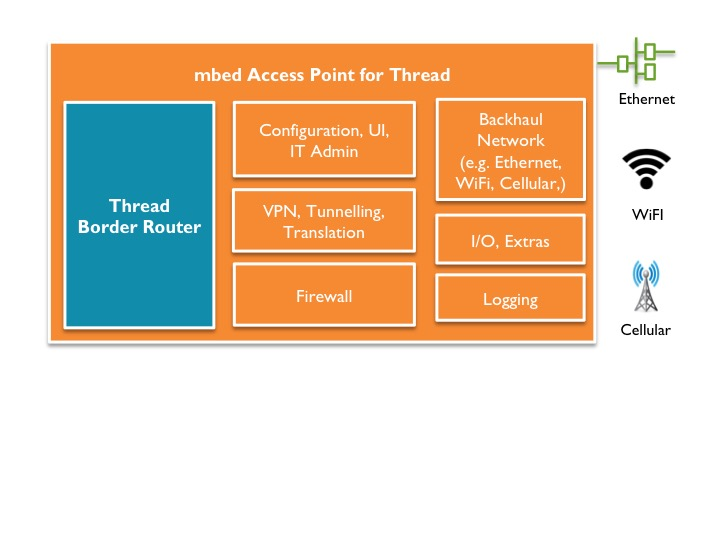
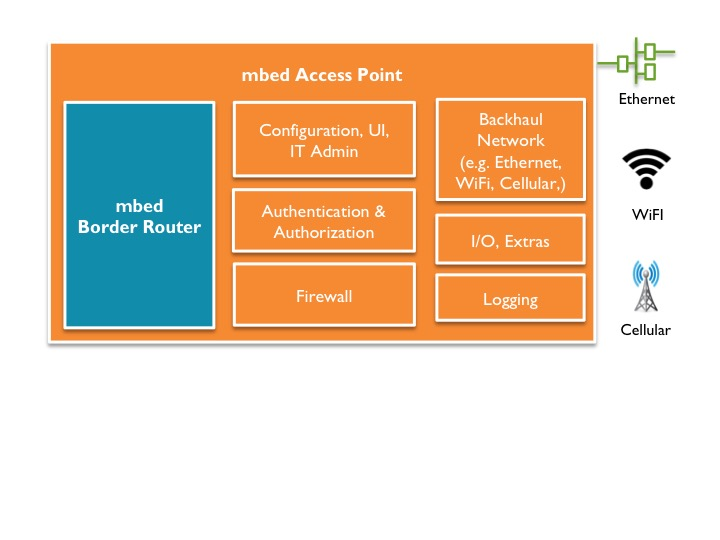
[mbed access point] Documentation update Added instruction in the README.md to build an mbed access point either based on Thread or 6LoWPAN border router.

Changed region(s): [[0.3667, 0.3556, 0.55, 0.4444], [0.275, 0.1185, 0.6417, 0.1481], [0.1528, 0.3556, 0.2444, 0.4148]]

diff --git a/README.md b/README.md
@@ -1,22 +1,22 @@
 
 <!--- Copyright (c) 2016 ARM Limited. All rights reserved.) --->
 
-# mbed Access Point for Thread networks
+# mbed Access Point for Low Power Wireless Networks
 
-mbed Access Point for Thread is a wireless access point that manages Thread networks and provides the necessary features to integrate a Thread network into an IT environment and cope with existing backhaul networks. It is a combination of the mbed 6LoWPAN Border Router (Thread Border Router) and the Linux Router.    
+mbed Access Point is a wireless device that manages the low power wireless networks (Thread or 6LoWPAN). It is a combination of the mbed 6LoWPAN Border Router (Thread/6LoWPAN Border Router) and the Linux Router. It provides the necessary features to integrate the low power wireless networks into an IT environment and cope with existing backhaul networks.    
 
-This document provides instructions for building an mbed Access Point for Thread based on Raspberry Pi 2B and the mbed 6LoWPAN Border Router.
+This document provides instructions for building an mbed Access Point for low power wireless networks based on Raspberry Pi 2B and the mbed 6LoWPAN Border Router.
 
 You can:
 
 * [Use a pre-built image based on OpenWrt for Raspberry Pi 2B](#using-the-pre-built-image).
-* [Generate an image from a source with custom configuration](#generating-an-image-from-source).
+* [Generate an image from a source](#generating-an-image-from-source).
 
 ## The architecture
 
-The architecture described in this document consists of two embedded boards, an mbed 6LoWPAN Border Router and a Linux Router. The motivation behind this two-board design is to achieve a mesh-agnostic mbed Access Point: we can use either a [Thread](https://www.threadgroup.org/) or a 6LoWPAN Border Router.
+The mbed access point consists of two embedded boards, an mbed Border Router and a Linux Router. The motivation behind this design is to achieve a mesh-agnostic mbed Access Point. With this approach it is possible to build an mbed Access Point either based on a [Thread](https://www.threadgroup.org/) or a 6LoWPAN Border Router with no (or minimal) changes to the Linux Router.
 
-The Thread Border Router is an IPv6 router that routes between regular and Thread network segments. Thread is designed for highly constrained IP networking, where bandwidth or energy is in short supply. Consequently, the Thread Border Router has some additional functionality to translate between the two domains.
+The Border (or Edge) Router is an IPv6 router that routes between regular and Thread/6LoWPAN network segments. The Thread/6LoWPAN is designed for highly constrained IP networking, where bandwidth or energy is in short supply. Consequently the Border Router has some additional functionality to translate between the two domains.
 
 The Linux Router is a resource-rich device capable of running Linux or a Linux-like operating system. It provides features typically expected by IT administrators, like VLAN support, authentication and authorization services, network management and logging, tunneling support, firewall and wireless mesh network management.
 
@@ -27,7 +27,7 @@ The figure below provides an overview of the mbed Access Point hardware componen
 
 You will need:
 
-1. Raspberry Pi 2B (working as the Linux Router).
+1. Raspberry Pi 2B (Linux Router).
 1. [mbed 6LoWPAN Border Router HAT](https://developer.mbed.org/platforms/mbed-6LoWPAN-Border-Router-HAT/).
 1. Micro-USB cable.
 1. Micro-SD card.
@@ -50,17 +50,19 @@ We've all the hardware components needed. Let's start building our mbed Access P
 
 The pre-built image for Raspberry Pi 2B contains the necessary modules and packages to convert a Raspberry Pi into an OpenWrt-based Linux Router.
 
-The current version of mbed Access Point doesn't support tunneling, so it needs IPv6 support in the backbone network to set up end-to-end communication (Thread end nodes to [mbed Device Connector](https://connector.mbed.com/)). If your backbone network only supports IPv4, you can use the default LAN network prefix included in the image: it creates an isolated Thread network based on the [ULA](https://tools.ietf.org/html/rfc4193) prefix `fd00:db80::/64`, so you can set up a Thread network without IPv6 support. The limitation in this configuration is that the Thread end nodes can only talk with mbed Access Point.
+The current version of mbed Access Point requires IPv6 support in the backbone network to setup an end-to-end communication (Thread/6LoWPAN end nodes talking to [mbed Device Connector](https://connector.mbed.com/)), as tunneling support is not yet available. However, the image includes a default [ULA](https://tools.ietf.org/html/rfc4193) prefix `fd00:db80::/64`, which enables the device to set up a Thread/6LoWPAN network without IPv6 support. In this configuration, Thread/6LoWPAN end nodes can only communicate with mbed Access Point.
 
 To use the pre-built image:
 
 1. Download the mbed Access Point [image!](binaries/openwrt-mbedap-v2.0.0-brcm2708-bcm2709-rpi-2-ext4-sdcard.img).
-1. Install the image on a Mirco-SD card. This [link](https://www.raspberrypi.org/documentation/installation/installing-images/) provides step by step instructions.
+1. Install the image on a Mirco-SD card. The [link](https://www.raspberrypi.org/documentation/installation/installing-images/) provides step by step instructions.
 1. Insert the Mirco-SD card into the Raspberry Pi's Mirco-SD card slot.
+
+If you are happy with the image provided in the repository which contains the default configuration then you can skip the next section and go to [prepare the mbed border router](#prepare-the-mbed-border-router).
 
 #### Generating an image from source
 
-This repository contains the build system for an mbed Access Point based on the OpenWrt build system. This allows you to build the image from source:
+This repository contains the build system for the mbed Access Point which is based on the OpenWrt. This allows you to build the image from source:
 
 1. Install the build system [prerequisites](https://wiki.openwrt.org/doc/howto/buildroot.exigence).
 1. Clone the repository onto a local machine.
@@ -78,30 +80,21 @@ Use V=s for verbose build log:
     make V=s
     ```
 1. The generated image (.img file) is located in the directory ``./bin/brcm2708/``.
-1. Install the image on a Mirco-SD card. This [link](https://www.raspberrypi.org/documentation/installation/installing-images/mac.md) provides step by step instructions.
+1. Install the image on a Mirco-SD card. The [link](https://www.raspberrypi.org/documentation/installation/installing-images/mac.md) provides step by step instructions.
 1. Insert the Mirco-SD card into the Raspberry Pi's Mirco-SD card slot.
 
-## Prepare the mbed 6LoWPAN Border Router
-
-### The DAPLink interface
-[The mbed 6LoWPAN Border Router HAT](https://developer.mbed.org/platforms/mbed-6LoWPAN-Border-Router-HAT/) contains a DAPLINK interface that connects to the host computer over USB and provides the following interfaces:
-
-1. A driver-less HID interface that provides a channel over which the CMSIS-DAP debug protocol runs. This enables all the industry-standard toolchains to program and debug the target system.
-1. USB Disk drag and drop programming: DAPLink debug probes appear on the host computer as a USB disk. Program files in binary (.bin) and hex (.hex) formats can be copied onto the USB disk using drag and drop, which then programs them on the target system.
-1. USB Serial Port: The DAPLink debug probe also provides a USB serial port that can be bridged through to a TTL UART on the target system. The USB Serial port will appear on a Windows machine as a COM port, or on a Linux machine as a /dev/tty interface.
-
-**Tip:** More information can be found at [DAPLINK](https://docs.mbed.com/docs/mbed-os-handbook/en/latest/advanced/DAP/).
+## Prepare the mbed Border Router
 
 ### Installing the binary
 
-___Getting the binary___
+___Generating the binary___
 
-The Thread Border Router firmware is only avaialbe in binary form to mbed users. But, ARM mbed Partners can download the source from [here](https://github.com/ARMmbed/thread-testapp-private).
-The Thread Border Router binary with the default configuration (RF channel = 26 and PAN ID = 0xface) is available [here!](binaries/thread-testapp-private_gff74fb0.bin).
+The instructions to generate the binary for the mbed Border Router is available [here](https://github.com/ARMmbed/nanostack-border-router).
+**Note:** Use the pre-configured json file "configs/Thread_SLIP_Atmel_RF.json" as mbed_app.json to use SLIP protocol for backhaul network.
 
 ___Installing___
 
-1. Connect the mbed 6LoWPAN Border Router to a laptop using the Micro-USB cable.
+1. Connect the mbed 6LoWPAN Border Router to a desktop/laptop using a Micro-USB cable.
 1. Ensure that the blue jumper (RESET-EN) is in the **off** position.
 1. Program your binary on the mbed 6LoWPAN Border Router using drag and drop. Wait until the red LED stops blinking to ensure that programming is complete.
 1. Attach the mbed 6LoWPAN Border Router to the Raspberry Pi, so that it fits firmly on top of the GPIO headers.
@@ -109,15 +102,15 @@ ___Installing___
 
 **Note**: mbed 6LoWPAN Border Router will be held in reset either until LAN interface on RPi is up and has a global IPv6 addresses, or for a maximum of 20 seconds.
 
-## Communicating with the mbed Access Point through SSH or web GUI
+## Communicating with the mbed Access Point using SSH or web GUI
 
-It is possible to communicate with mbed Access Point using either SSH or web GUI. For testing, we'll use SSH to enter and execute the commands.
+The mbed Access Point supports both command line (SSH) and graphical user interface (web). For testing purpose, we'll use command line (SSH) to enter and execute the commands.
 
-**Tip:** You can also use the web GUI to configure and check the health of your mbed Access Point.
+**Tip:** You can also use the web GUI to configure and check the health of the mbed Access Point.
 
 ___Identifying the IP address___
 
-To communicate with mbed Access Point, you need to identify its IP address. You can choose either of the following methods:
+Either of the following methods can be used to identify the IP address of the mbed access point:
 
 Method 1:
 
@@ -151,15 +144,15 @@ Use root user credentials to log in.
 
 ## Testing and verifying network connectivity
 
-If you have followed all the instructions, then you should have an mbed Access Point instance capable of managing a Thread network. The next step is to perform basic tests that verify network connectivity between the Linux Router and the mbed 6LoWPAN Border Router.
+If you have followed all the instructions, then you should have an mbed Access Point capable of managing low power wireless networks. Let us create a example Thread network to perform basic tests to verify the network connectivity between the Linux Router and the mbed Border Router.
 
 ### Backbone network with IPv4 support only
 
-As described before, if your backbone network only supports IPv4, then ULA addresses are used to set up the Thread network. In this case, the scope of Thread traffic is limited to mbed Access Point, as the ULA addresses are not routable over the Internet. However, all  devices in the Thread network (mbed Access Point, the mbed 6LoWPAN Border Router and end nodes) can talk to each other.
+As described before, if your backbone network only supports IPv4, then ULA address is used to set up the Thread network. In this case, the scope of the traffic is limited to mbed Access Point, as the ULA addresses are not routable over the Internet. However, all  devices in the Thread network (mbed Access Point, the mbed Border Router and end nodes) can talk to each other.
 
-Let us try to ping the Thread Border Router from the Linux Router:
+Let us try to ping the Border Router from the Linux Router:
 
-1. Power up the Raspberry Pi and wait until both the Raspberry Pi and the Thread Border Router are up.
+1. Power up the Raspberry Pi and wait until both the Raspberry Pi and the Border Router are up.
 1. Log into Raspberry Pi (Linux Router) using SSH:
 
     ```
@@ -184,104 +177,156 @@ Let us try to ping the Thread Border Router from the Linux Router:
     fd00:db80::/64 dev sl0  proto static  metric 1024  pref medium
     fe80::/64 dev sl0  proto kernel  metric 256  pref medium
     ```
-1. Connect the Thread Border Router to your laptop using a mirco-USB cable.
-1. To monitor logs form the Thread border router, you can use terminal utilities like Minicom or PuTTY. Make sure the terminal utility is set to 115200 baud rate and 8N1.
-1. The Thread Border Router will use the router advertisements sent by the Linux Router to generate IPv6 addresses for both the backhaul and radio interfaces. Wait until the bootstrap is complete.
+1. Connect the mbed Border Router to your laptop using a mirco-USB cable.
+1. To monitor logs form the Border Router, you can use terminal utilities like Minicom or PuTTY. Make sure the terminal utility is set to 115200 baud rate and 8N1.
+1. The Border Router will use the router advertisements sent by the Linux Router to generate IPv6 addresses for both the backhaul and radio interfaces. Wait until the bootstrap is complete.
 
-    ```
-       _   ___ __  __               _            _  ___  ___
-      /_\ | _ \  \/  |  ___   _ __ | |__  ___ __| |/ _ \/ __|
-     / _ \|   / |\/| | |___| | '  \| '_ \/ -_) _` | (_) \__
-    /_/ \_\_|_\_|  |_|       |_|_|_|_.__/\___\__,_|\___/|___/
-
-    /> I'm Thread (Border) Router
-    [DBG ][cApp]: cmd tasklet init
-    [DBG ][cApp]: network_event_handler-ARM_LIB_TASKLET_INIT_EVENT
-    [DBG ][cApp]: cmdline_event-ARM_LIB_TASKLET_INIT_EVENT
-    mesh0 bootstrap ongoing..
-    eth0 ready
-    Ethernet (eth0) bootstrap ready. IP: fd00:db80::6407:8f79:ef5d:2052
-    Bootstrap ready
-    />
-    ```
-
-1. The Thread Border Router offers command-line like interface to enter the commands. Type in `ifconfig` in the terminal utility. You should see the following output:
-
-    ```
-    />ifconfig
-    Interface tun0:
-
-      State:               None
-
-    interface eth0:
-
-      State:               CONNECTED
-      Metric:              0
-      MAC-48:              4a:47:97:f5:e0:82
-                                          IPv6 if addr:
-       role[0]: fe80::4847:97ff:fef5:e082
-       role[1]: fd00:db80::6407:8f79:ef5d:2052
-
-    Interface mesh0:
-      State:               CONNECTED
-      Metric:              1000
-      Mode:                Router
-      Extension:           6LoWPAN Thread with MLE Attached
-      Bootstrap retries:   0
-      MAC:                 fc:c2:3d:00:00:03:11:ee
-      br-ula-prefix:       fd:00:0d:b8:00:00:00:00
-      radio type:          2.4GHz
-      channel page:        0
-      |-channel(s):        16,
-      Thread device configuration
-          Company:ARM ltd Model:MbedOS Ver:(1.1)
-      |-EUI64:               fc:c2:3d:00:00:03:11:ee
-      |-PSKd:                threadjpaketest
-      |-provisioning-url:    Not set
-      |-max Child count:     32
-      |-Downgrade Threshold: 23
-      |-Upgrade Threshold:   16
-      |-Reed advertisement interval:   570, 60
-      Static thread network config
-      |-networkid:         Arm Powered Core..
-      |-PSKc:              74:68:72:65:61:64:6a:70:61:6b:65:74:65:73:74:00
-      |-ML-ULA-prefix:     fd:00:0d:b8:00:00:00:00
-      |-ML-EID:            fc:c7:66:d8:d8:52:4d:20
-      |-private_mac:       87:c8:bc:36:d6:f9:0d:7a
-      |-panId:             face
-      |-extended-pan-id:   00:0d:b8:00:00:90:b9:72
-      |-Key:               00:11:22:33:44:55:66:77:88:99:aa:bb:cc:dd:ee:ff
-        |-rotation:        3600
-        |-seq-counter:     0
-      |-Security Policy:   255
-      |-Channel:           16
-      |-link-timeout:      240 s.
-      |-timestamp:         0
-      MAC 16-bit:          00:00
-      MAC 64-bit:          87:c8:bc:36:d6:f9:0d:7a
-      IID:                 85:c8:bc:36:d6:f9:0d:7a
-      Radio if address
-       [0]: fe80::85c8:bc36:d6f9:d7a
-       [1]: fd00:db8::fcc7:66d8:d852:4d20
-       [2]: fd00:db8::ff:fe00:fc00
-       [3]: fd00:db8::ff:fe00:0
-       [4]: fd00:db8::ff:fe00:fc01
-       [5]: fd00:db80::85c8:bc36:d6f9:d7a
-    ```
-
-1. The line `role[1]: fd00:db80::6407:8f79:ef5d:2052` indicates the IPv6 address of the backhaul interface.
-1. The line `[5]: fd00:db80::85c8:bc36:d6f9:d7a` indicates the IPv6 address of radio interface.
-1. Switch to a terminal with the SSH connection to the Linux Router. Try pinging the mbed 6LoWPAN Border Router using the ULA address:
 ```
-ping6 fd00:db80::6407:8f79:ef5d:2052    // Pinging backhaul interface
-ping6 fd00:db80::85c8:bc36:d6f9:d7a     // Pinging radio interface
+[INFO][app ]: Starting NanoStack Border Router...
+[INFO][app ]: Build date: Jun 15 2017 13:48:37
+[INFO][brro]: NET_IPV6_BOOTSTRAP_AUTONOMOUS
+[INFO][app ]: Using SLIP backhaul driver...
+[DBG ][slip]: SLIP driver id: 1
+[DBG ][brro]: Backhaul driver ID: 1
+[DBG ][brro]: Create Mesh Interface
+[INFO][brro]: thread_if_id: 1
+[INFO][brro]: thread_interface_up
+[INFO][brro]: PAN ID 700
+[INFO][brro]: RF channel 16
+[DBG ][ThSA]: service init interface 1, port 61631, options 0
+[DBG ][ThSA]: service tasklet init
+[DBG ][coap]: Coap random msg ID: 31602
+[DBG ][coap]: Coap BLOCKWISE_MAX_TIME_DATA_STORED: 60
+[DBG ][ThSA]: Service 1, Uri registration uri: a/nd
+[DBG ][ThSA]: Service 1, Uri registration uri: n/mr
+[DBG ][ThSA]: service init interface 1, port 49191, options 130
+[DBG ][ThSA]: Service 2, Uri registration uri: c/mg
+[DBG ][ThSA]: Service 2, Uri registration uri: c/ag
+[DBG ][ThSA]: Service 2, Uri registration uri: c/pg
+[DBG ][ThSA]: Service 2, Uri registration uri: c/tx
+[DBG ][ThSA]: Service 2, Uri registration uri: c/cs
+[DBG ][ThSA]: Service 2, Uri registration uri: c/cg
+[DBG ][ThSA]: Service 2, Uri registration uri: c/cp
+[DBG ][ThSA]: Service 2, Uri registration uri: c/ca
+[DBG ][ThSA]: service init interface 1, port 61631, options 0
+[DBG ][ThSA]: Service 3, Uri registration uri: c/mg
+[DBG ][ThSA]: Service 3, Uri registration uri: c/ag
+[DBG ][ThSA]: Service 3, Uri registration uri: c/pg
+[DBG ][ThSA]: Service 3, Uri registration uri: c/cg
+[DBG ][ThSA]: Service 3, Uri registration uri: c/pq
+[DBG ][ThSA]: Service 3, Uri registration uri: c/es
+[DBG ][ThSA]: Service 3, Uri registration uri: c/ab
+[DBG ][ThSA]: service init interface 1, port 61631, options 0
+[DBG ][ThSA]: Service 4, Uri registration uri: d/dg
+[DBG ][ThSA]: Service 4, Uri registration uri: d/dr
+[DBG ][ThSA]: Service 4, Uri registration uri: d/dq
+[DBG ][ThSA]: service init interface 1, port 61631, options 0
+[INFO][brro]: mesh0 bootstrap ongoing...
+[DBG ][brro]: backhaul_interface_up: 1
+[DBG ][brro]: Backhaul interface ID: 2
+[DBG ][brro]: Backhaul bootstrap started
+[DBG ][ThSA]: service tasklet initialised
+[DBG ][rnvm]: platform_nvm_read() com.arm.nanostack.thread.static_link_cfg len=120
+[DBG ][rnvm]: platform_nvm_key_create() com.arm.nanostack.thread.static_link_cfg len=120
+[DBG ][rnvm]: platform_nvm_write() com.arm.nanostack.thread.static_link_cfg len=120
+[DBG ][rnvm]: platform_nvm_flush()
+[DBG ][rnvm]: platform_nvm_read() com.arm.nanostack.thread.static_link_cfg len=120
+[DBG ][slip]: slip_if_tx(): datalen = 72
+[DBG ][slip]: slip_if_tx(): datalen = 64
+[DBG ][slip]: slip_if_tx(): datalen = 56
+[DBG ][slip]: slip_if_tx(): datalen = 72
+[DBG ][slip]: slip_if_tx(): datalen = 64
+[INFO][brro]: BR interface_id: 2
+[INFO][TBRH]: Ethernet (eth0) bootstrap ready. IP: fd00:db80::995:d4e9:c379:7fe3
+[INFO][brro]: Backhaul interface addresses:
+[INFO][brro]:  [0] fe80::dc42:77ff:fe15:1abd
+[INFO][brro]:  [1] fd00:db80::995:d4e9:c379:7fe3
+[DBG ][TBRH]: Eth0 connection status: 1
+[DBG ][TBRH]: mesh0 is down
+[DBG ][slip]: slip_if_tx(): datalen = 72
+[DBG ][ThSA]: Service 3, Uri registration uri: a/as
+[DBG ][ThSA]: Service 3, Uri registration uri: a/ar
+[DBG ][ThSA]: Service 3, Uri registration uri: c/lp
+[DBG ][ThSA]: Service 3, Uri registration uri: c/la
+[DBG ][ThSA]: Service 3, Uri registration uri: a/sd
+[DBG ][ThSA]: Service 3, Uri registration uri: c/as
+[DBG ][ThSA]: Service 3, Uri registration uri: c/ps
+[DBG ][ThSA]: Service 3, Uri registration uri: c/cs
+[DBG ][ThSA]: service init interface 1, port 61631, options 0
+[DBG ][ThSA]: Service 6, Uri registration uri: a/aq
+[DBG ][ThSA]: service init interface 1, port 61631, options 0
+[DBG ][ThSA]: Service 7, Uri registration uri: a/an
+[DBG ][ThSA]: Service 7, Uri registration uri: a/ae
+[INFO][brro]: Thread bootstrap ready
+[INFO][brro]: RF interface addresses:
+[INFO][brro]:  [0] fe80::d0c9:a7ad:6815:cf0f
+[INFO][brro]:  [1] fd00:db8::2c9d:98ae:278f:d63f
+[INFO][brro]:  [2] fd00:db8::ff:fe00:9c00
+[INFO][brro]:  [3] fd00:db8::ff:fe00:fc00
+[DBG ][TBRH]: mesh0 connection status: 1
+[DBG ][TBRH]: DHCP server started
+[DBG ][CoSA]: Service 5, send CoAP request payload_len 20
+[DBG ][coap]: sn_coap_builder_calc_needed_packet_data_size_2
+[DBG ][coap]: sn_coap_protocol_build - payload len 20
+[DBG ][coap]: sn_coap_builder_2
+[DBG ][coap]: sn_coap_builder_calc_needed_packet_data_size_2
+[DBG ][coap]: sn_coap_builder_2 - message len: [36]
+[DBG ][coap]: sn_coap_protocol_build - msg id: [31602], bytes: [36]
+[DBG ][ThSA]: Service 5, CoAP TX Function - mid: 31602
+[DBG ][TBRH]: Updated fd00:db80::/64 prefix
+[DBG ][ThSA]: service recv socket data len 36
+[DBG ][coap]: sn_coap_protocol_parse
+[DBG ][CoSA]: CoAP status:0, type:0, code:2, id:31602
+[DBG ][ThSA]: Service 3, call request recv cb uri a/sd
+[DBG ][ThSA]: Service 3, Uri unregistration uri: c/tx
+[DBG ][CoSA]: Service 3, send CoAP response
+[DBG ][coap]: sn_coap_builder_calc_needed_packet_data_size_2
+[DBG ][coap]: sn_coap_protocol_build - payload len 0
+[DBG ][coap]: sn_coap_builder_2
+[DBG ][coap]: sn_coap_builder_calc_needed_packet_data_size_2
+[DBG ][coap]: sn_coap_builder_2 - message len: [10]
+[DBG ][coap]: sn_coap_protocol_build - msg id: [31602], bytes: [10]
+[DBG ][ThSA]: Service 3, CoAP TX Function - mid: 31602
+[DBG ][ThCH]: send from source address fd:00:0d:b8:00:00:00:00:00:00:00:ff:fe:00:9c:00
+[DBG ][slip]: slip_if_tx(): datalen = 72
+[DBG ][slip]: slip_if_tx(): datalen = 106
+[DBG ][ThSA]: service recv socket data len 10
+[DBG ][coap]: sn_coap_protocol_parse
+[DBG ][CoSA]: CoAP status:0, type:32, code:68, id:31602
+[DBG ][CoSA]: Service 5, response received
+[DBG ][slip]: slip_if_tx(): datalen = 72
+[DBG ][slip]: slip_if_tx(): datalen = 162
+[DBG ][slip]: slip_if_tx(): datalen = 162
+[DBG ][slip]: slip_if_tx(): datalen = 162
+[DBG ][slip]: slip_if_tx(): datalen = 72
+[DBG ][slip]: slip_if_tx(): datalen = 228
+[DBG ][slip]: slip_if_tx(): datalen = 228
+[INFO][app ]: Heap size: 50000, Reserved: 16948, Reserved max: 18832, Alloc fail: 0
+[INFO][brro]: Backhaul interface addresses:
+[INFO][brro]:  [0] fe80::dc42:77ff:fe15:1abd
+[INFO][brro]:  [1] fd00:db80::995:d4e9:c379:7fe3
+[INFO][brro]: RF interface addresses:
+[INFO][brro]:  [0] fe80::d0c9:a7ad:6815:cf0f
+[INFO][brro]:  [1] fd00:db8::2c9d:98ae:278f:d63f
+[INFO][brro]:  [2] fd00:db8::ff:fe00:9c00
+[INFO][brro]:  [3] fd00:db8::ff:fe00:fc00
+[INFO][brro]:  [4] fd00:db8::ff:fe00:fc01
+[INFO][brro]:  [5] fd00:db80::d0c9:a7ad:6815:cf0f
+```
+
+1. The line `[INFO][brro]:  [1] fd00:db80::995:d4e9:c379:7fe3` indicates the IPv6 address of the backhaul interface.
+1. The line `[INFO][brro]:  [5] fd00:db80::d0c9:a7ad:6815:cf0f` indicates the IPv6 address of radio interface.
+1. Switch to a terminal with the SSH connection to the Linux Router. Try pinging the mbed Border Router using the ULA address:
+```
+ping6 fd00:db80::995:d4e9:c379:7fe3    // Pinging backhaul interface
+ping6 fd00:db80::d0c9:a7ad:6815:cf0f     // Pinging radio interface
 ```
 
 ### Backbone network with IPv6 and DHCP-PD support
-The mbed Access Point includes odhcp6c module, which is a minimal DHCPv6 and RA-client. odhcp6c supports RA + stateful DHCPv6 (either IA_NA or IA_PD or both). If your backbone supports IPv6 and DHCP-PD, then the odhcp6c will request the global prefix from the backbone router and configure the Thread network according to the prefix received.
+The mbed Access Point includes odhcp6c module, which is a minimal DHCPv6 and RA-client. odhcp6c supports RA + stateful DHCPv6 (either IA_NA or IA_PD or both). If the backbone supports IPv6 and DHCP-PD, then odhcp6c will request a global prefix from the backbone router and configure the Thread network according to the prefix received.
 
-### Creating a Thread Network
-Congratulations!! You have just created an mbed Access Point for Thread. It's time to explore the world of Thread networks. Follow the instructions described in [mbed-os-example-client](https://github.com/ARMmbed/mbed-os-example-client) to set up Thread end nodes.
+### Creating a Thread network
+Congratulations!! You have just created an mbed Access Point for Thread network. Follow the instructions described in [mbed-os-example-client](https://github.com/ARMmbed/mbed-os-example-client) to set up Thread end nodes.
 
 **Tip:** Please ignore the instructions regarding the border router, as it is part of the mbed Access Point.
 
@@ -289,6 +334,6 @@ The end nodes will send LWM2M registration messages to mbed Device Connector.
 
 **Note:** If your backbone network doesn't support IPv6 then these messages will not be sent out of the mbed Access Point; you should still be able to ping all the end nodes from the mbed Access Point.
 
-If you have any questions or would like to start a discussion then please create an issue in the [mbed Access Point GitHub repository](https://github.com/ARMmbed/mbed-access-point-private).
+If you have any questions or would like to start a discussion then please create an issue in the [mbed Access Point GitHub repository](https://github.com/ARMmbed/mbed-access-point).
 
 This work is partially supported by the [Horizon 2020 programme](http://ec.europa.eu/programmes/horizon2020/) of the European Union, under grant agreement number 644332.
